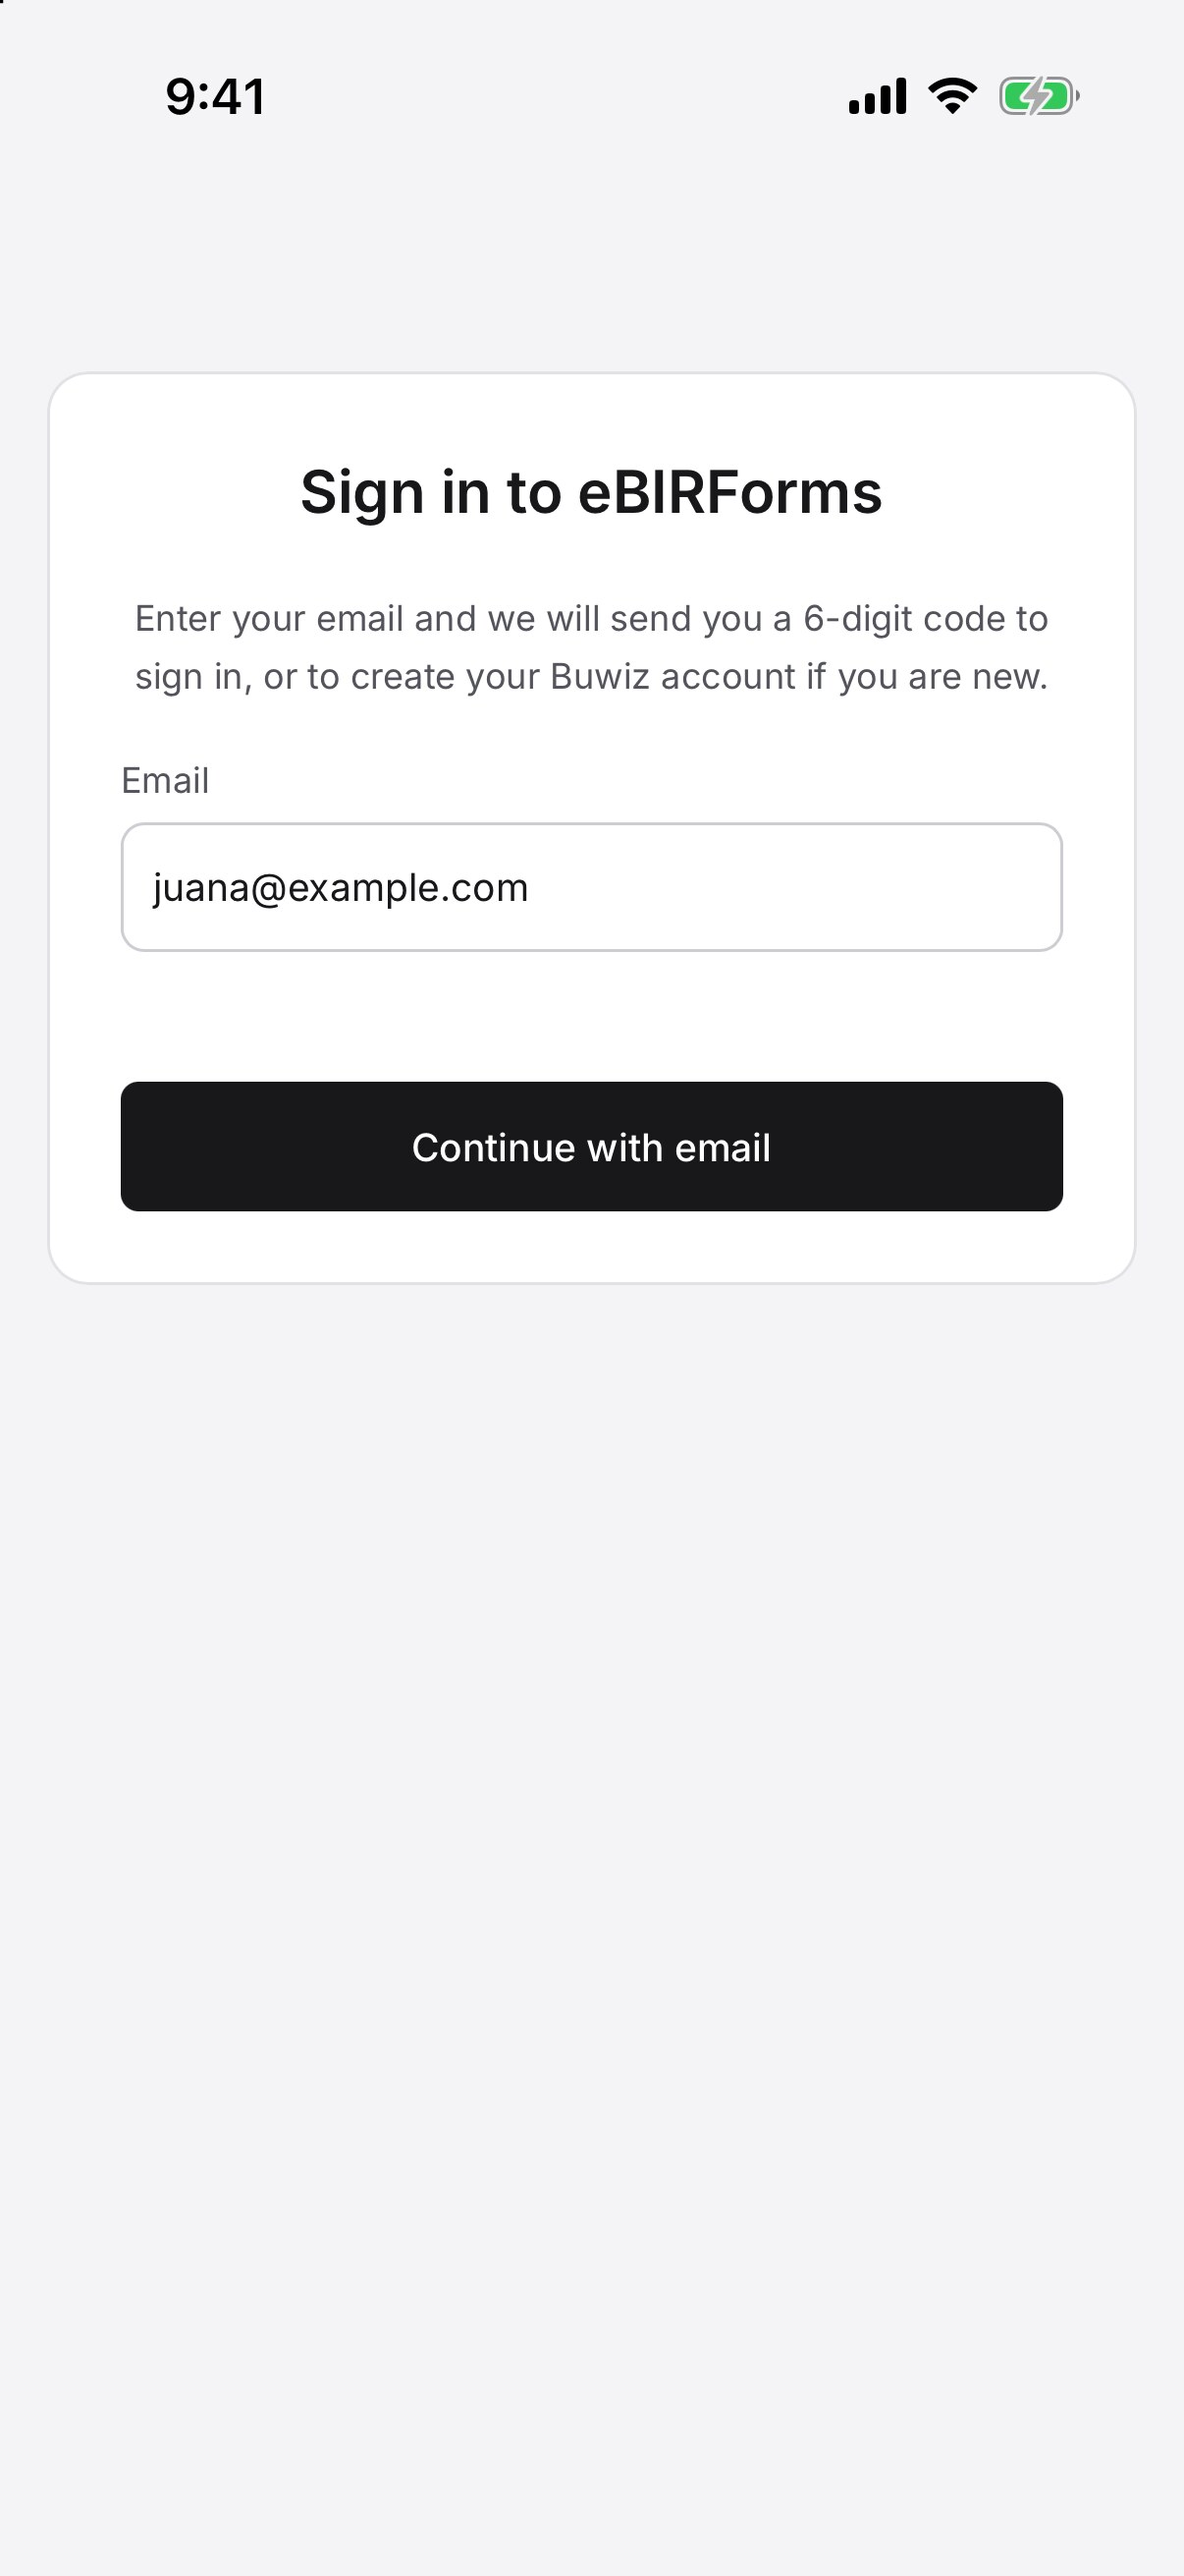
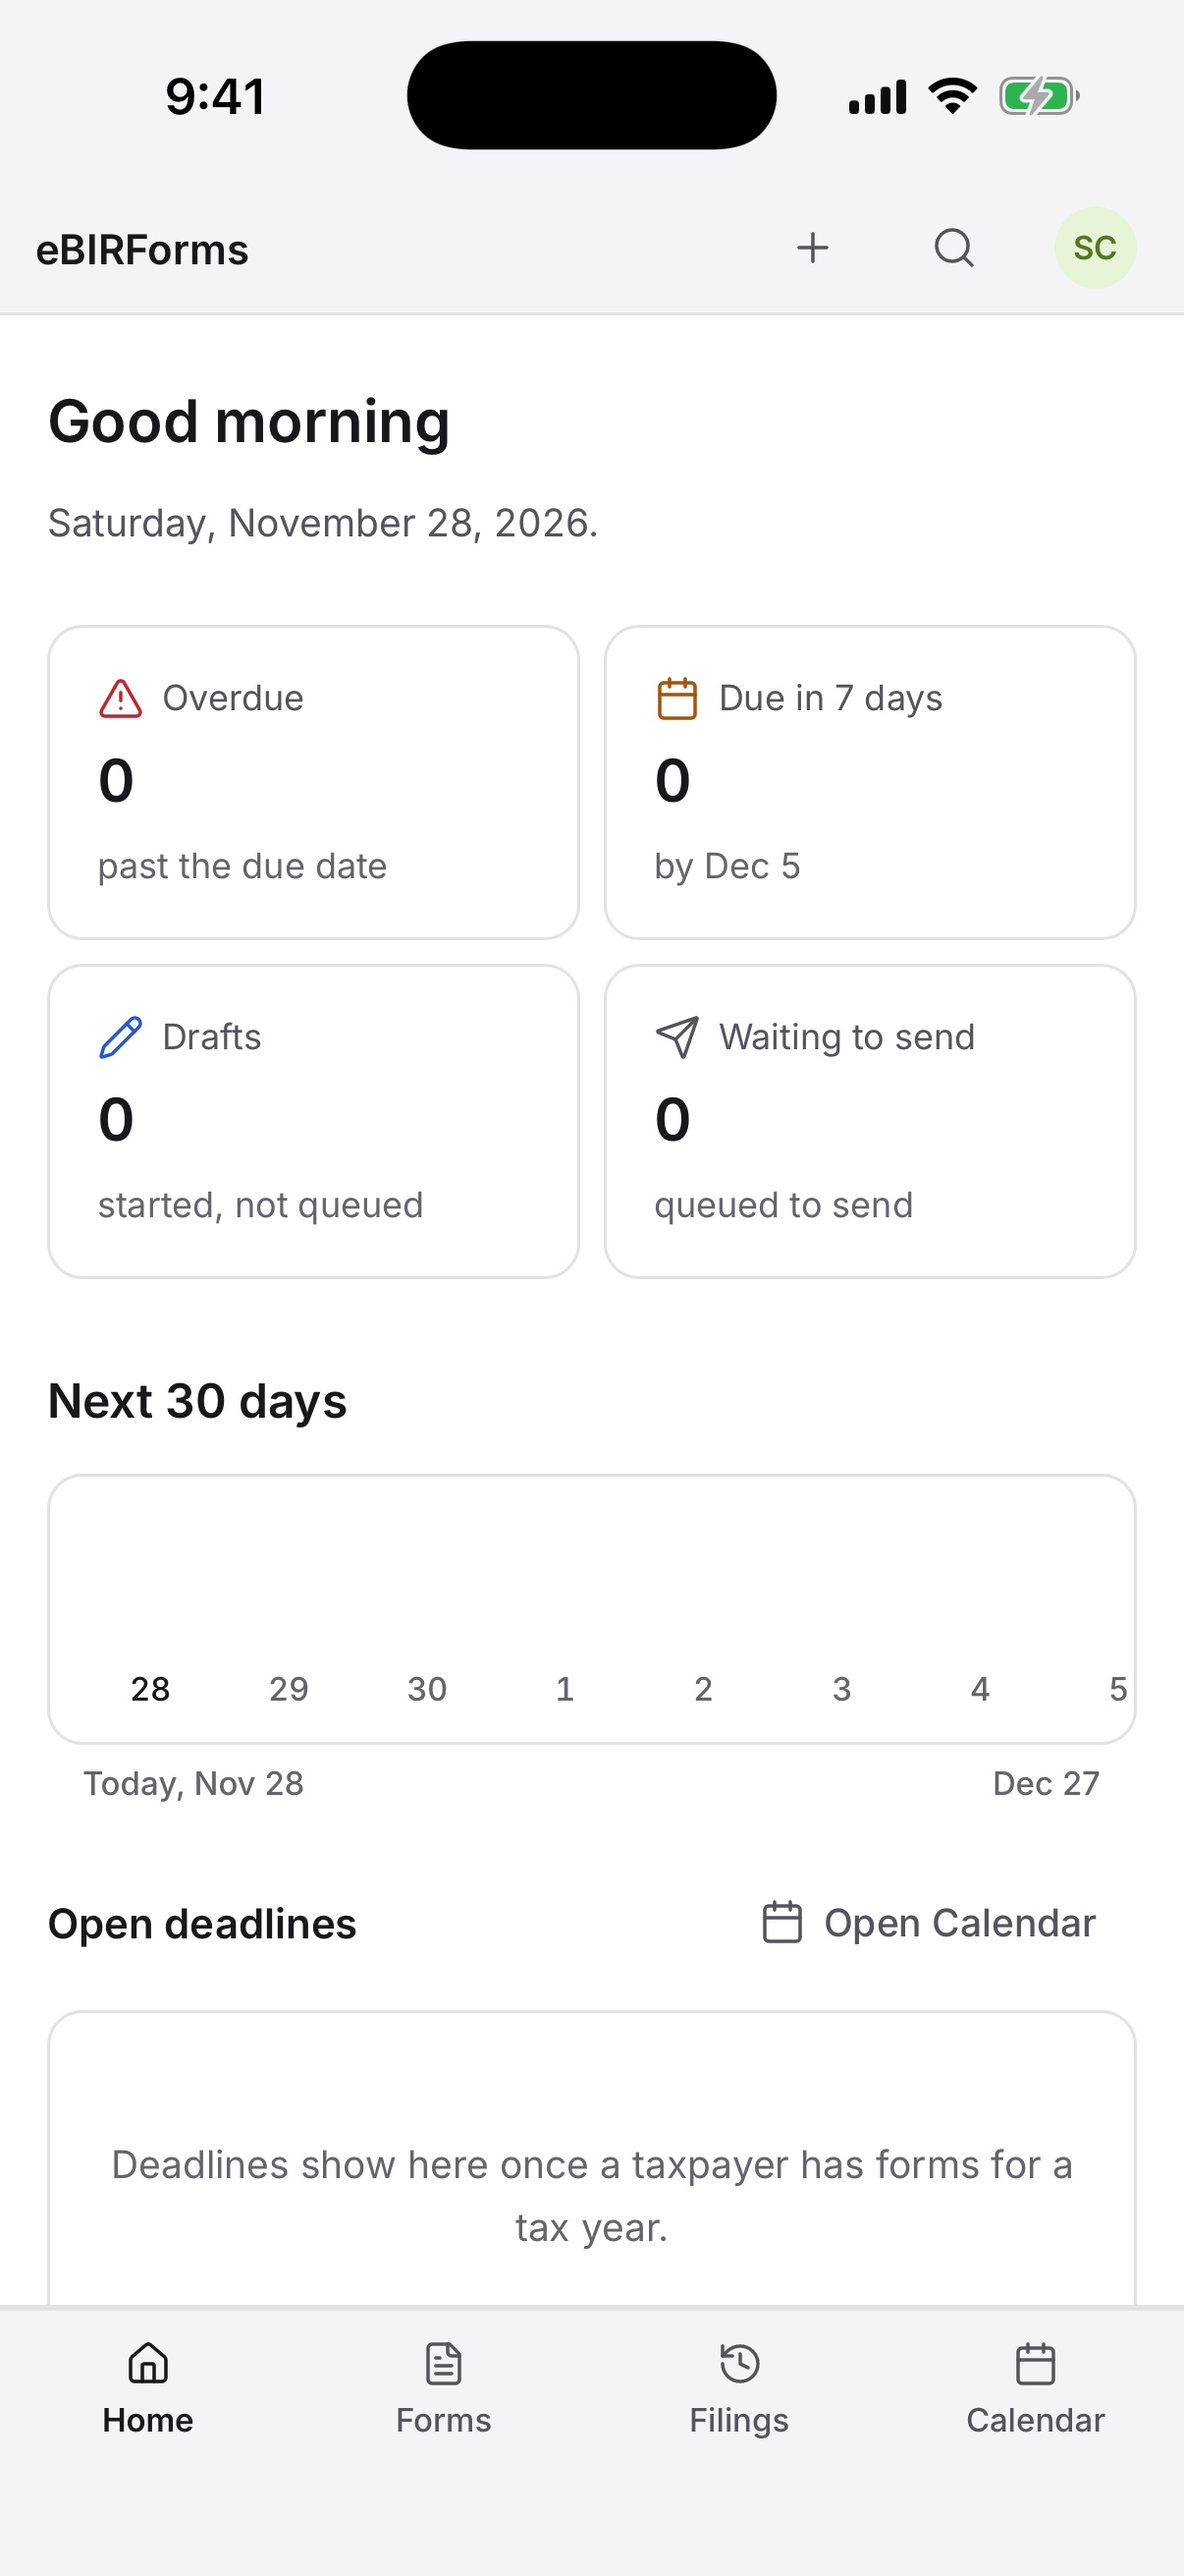
docs: README showcase shows the iPhone home screen, not the sign-in page
The iPhone in the device showcase was the sign-in page. It is now the
app's home screen on an iPhone 17 Pro Simulator (iOS 26.5), signed in,
with the status bar at 9:41, so all three devices show the app itself.

diff --git a/assets/readme/showcase/showcase.html b/assets/readme/showcase/showcase.html
@@ -1,5 +1,5 @@
 <!doctype html><html><head><meta charset="utf-8"><style>
-/* Three devices, one height: iPhone (sign-in) | Mac (home dashboard) | iPad (2551Q form). Transparent page. */
+/* Three devices, one height: iPhone (home) | Mac (home dashboard) | iPad (2551Q form). Transparent page. */
 :root { --h: 640px; --bezel: #0d0e12; --rim: #8e939c; }
 html, body { margin: 0; background: transparent; }
 .stage { display: flex; align-items: flex-end; justify-content: center; gap: 56px; padding: 40px 48px 48px; width: max-content; }

diff --git a/assets/readme/showcase/README.md b/assets/readme/showcase/README.md
@@ -1,8 +1,8 @@
 # README showcase
 
-`assets/readme/showcase.png` shows the app on three devices: iPhone (sign-in), Mac (home), and iPad (BIR Form 2551Q). The devices are drawn in `showcase.html` around real screenshots of the app:
+`assets/readme/showcase.png` shows the app on three devices: iPhone (home), Mac (home), and iPad (BIR Form 2551Q). The devices are drawn in `showcase.html` around real screenshots of the app:
 
-- `iphone.jpg`: iPhone 16 Pro Simulator, the sign-in page after signing out.
+- `iphone.jpg`: iPhone 17 Pro Simulator (iOS 26.5, 1206 × 2622), home after signing in, status bar set to 9:41.
 - `desktop.jpg`: the macOS window at 1440 × 900, home with sample taxpayers.
 - `ipad.jpg`: iPad Pro 13" Simulator, from the App Store set, 2551Q Part II.
 

diff --git a/README.md b/README.md
@@ -18,7 +18,7 @@
 ![Windows](assets/badges/windows.svg)
 
 <p align="center">
-  <img src="assets/readme/showcase.png" alt="eBIRForms on iPhone (sign-in), Mac (home) and iPad (BIR Form 2551Q)" width="100%">
+  <img src="assets/readme/showcase.png" alt="eBIRForms on iPhone (home), Mac (home) and iPad (BIR Form 2551Q)" width="100%">
 </p>
 
 E-BIRForms is an offline-first desktop app to prepare, validate, print and
